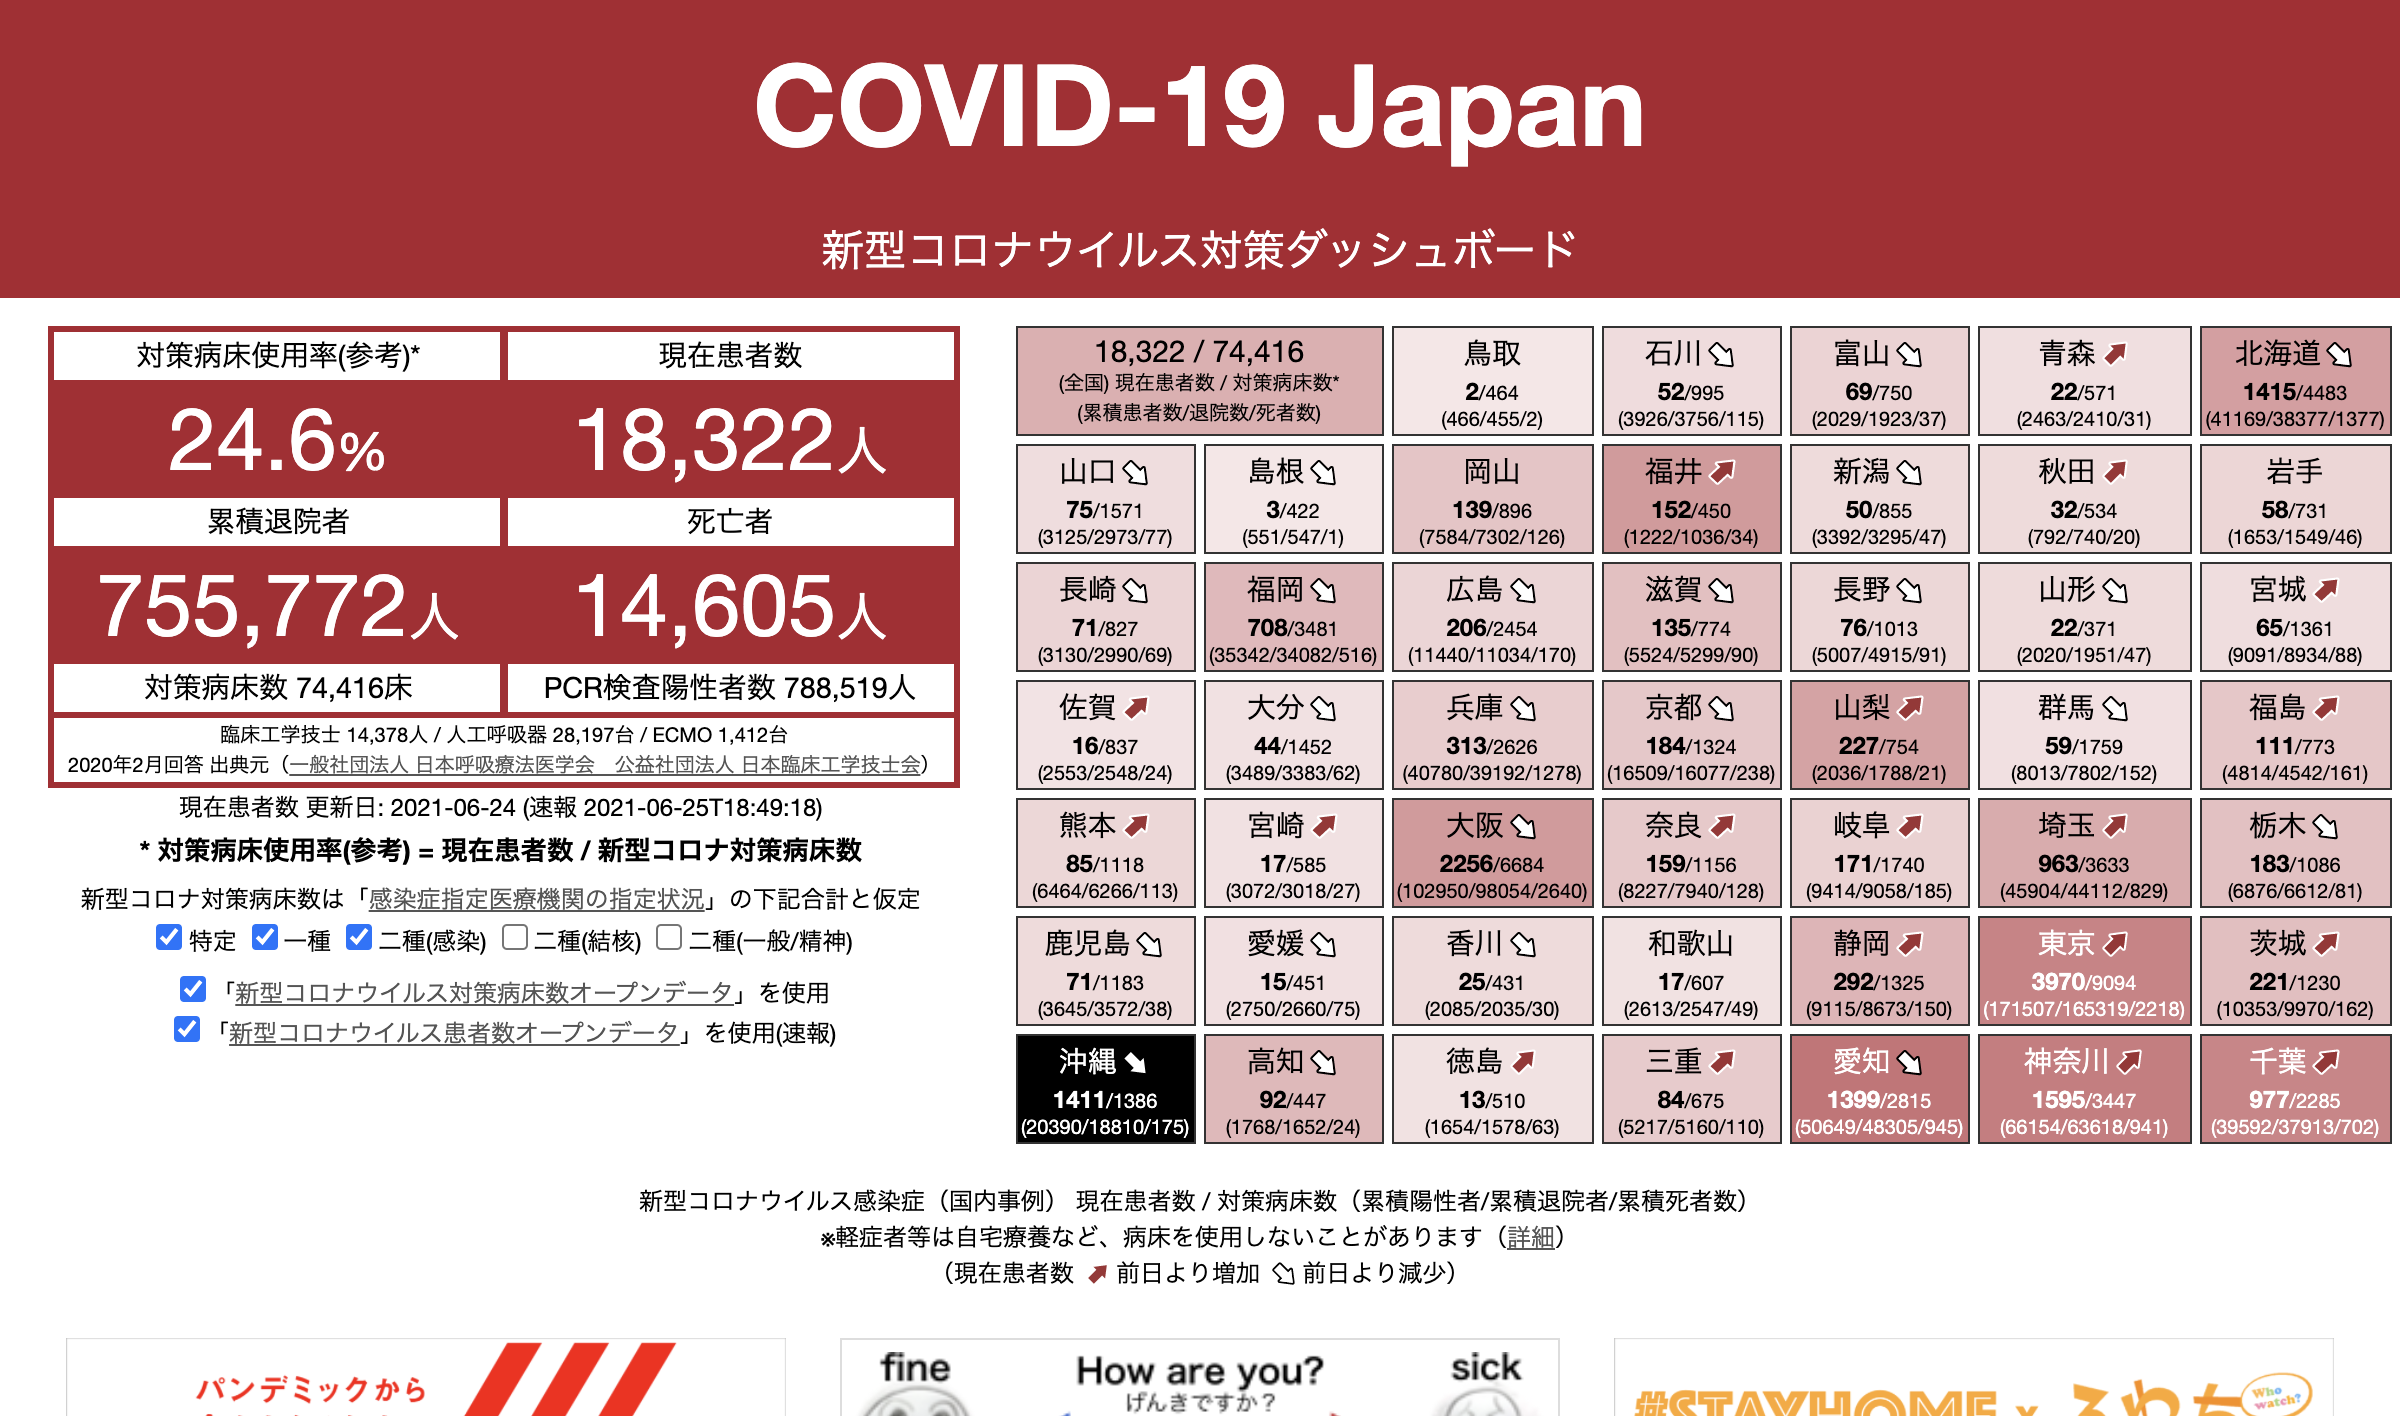
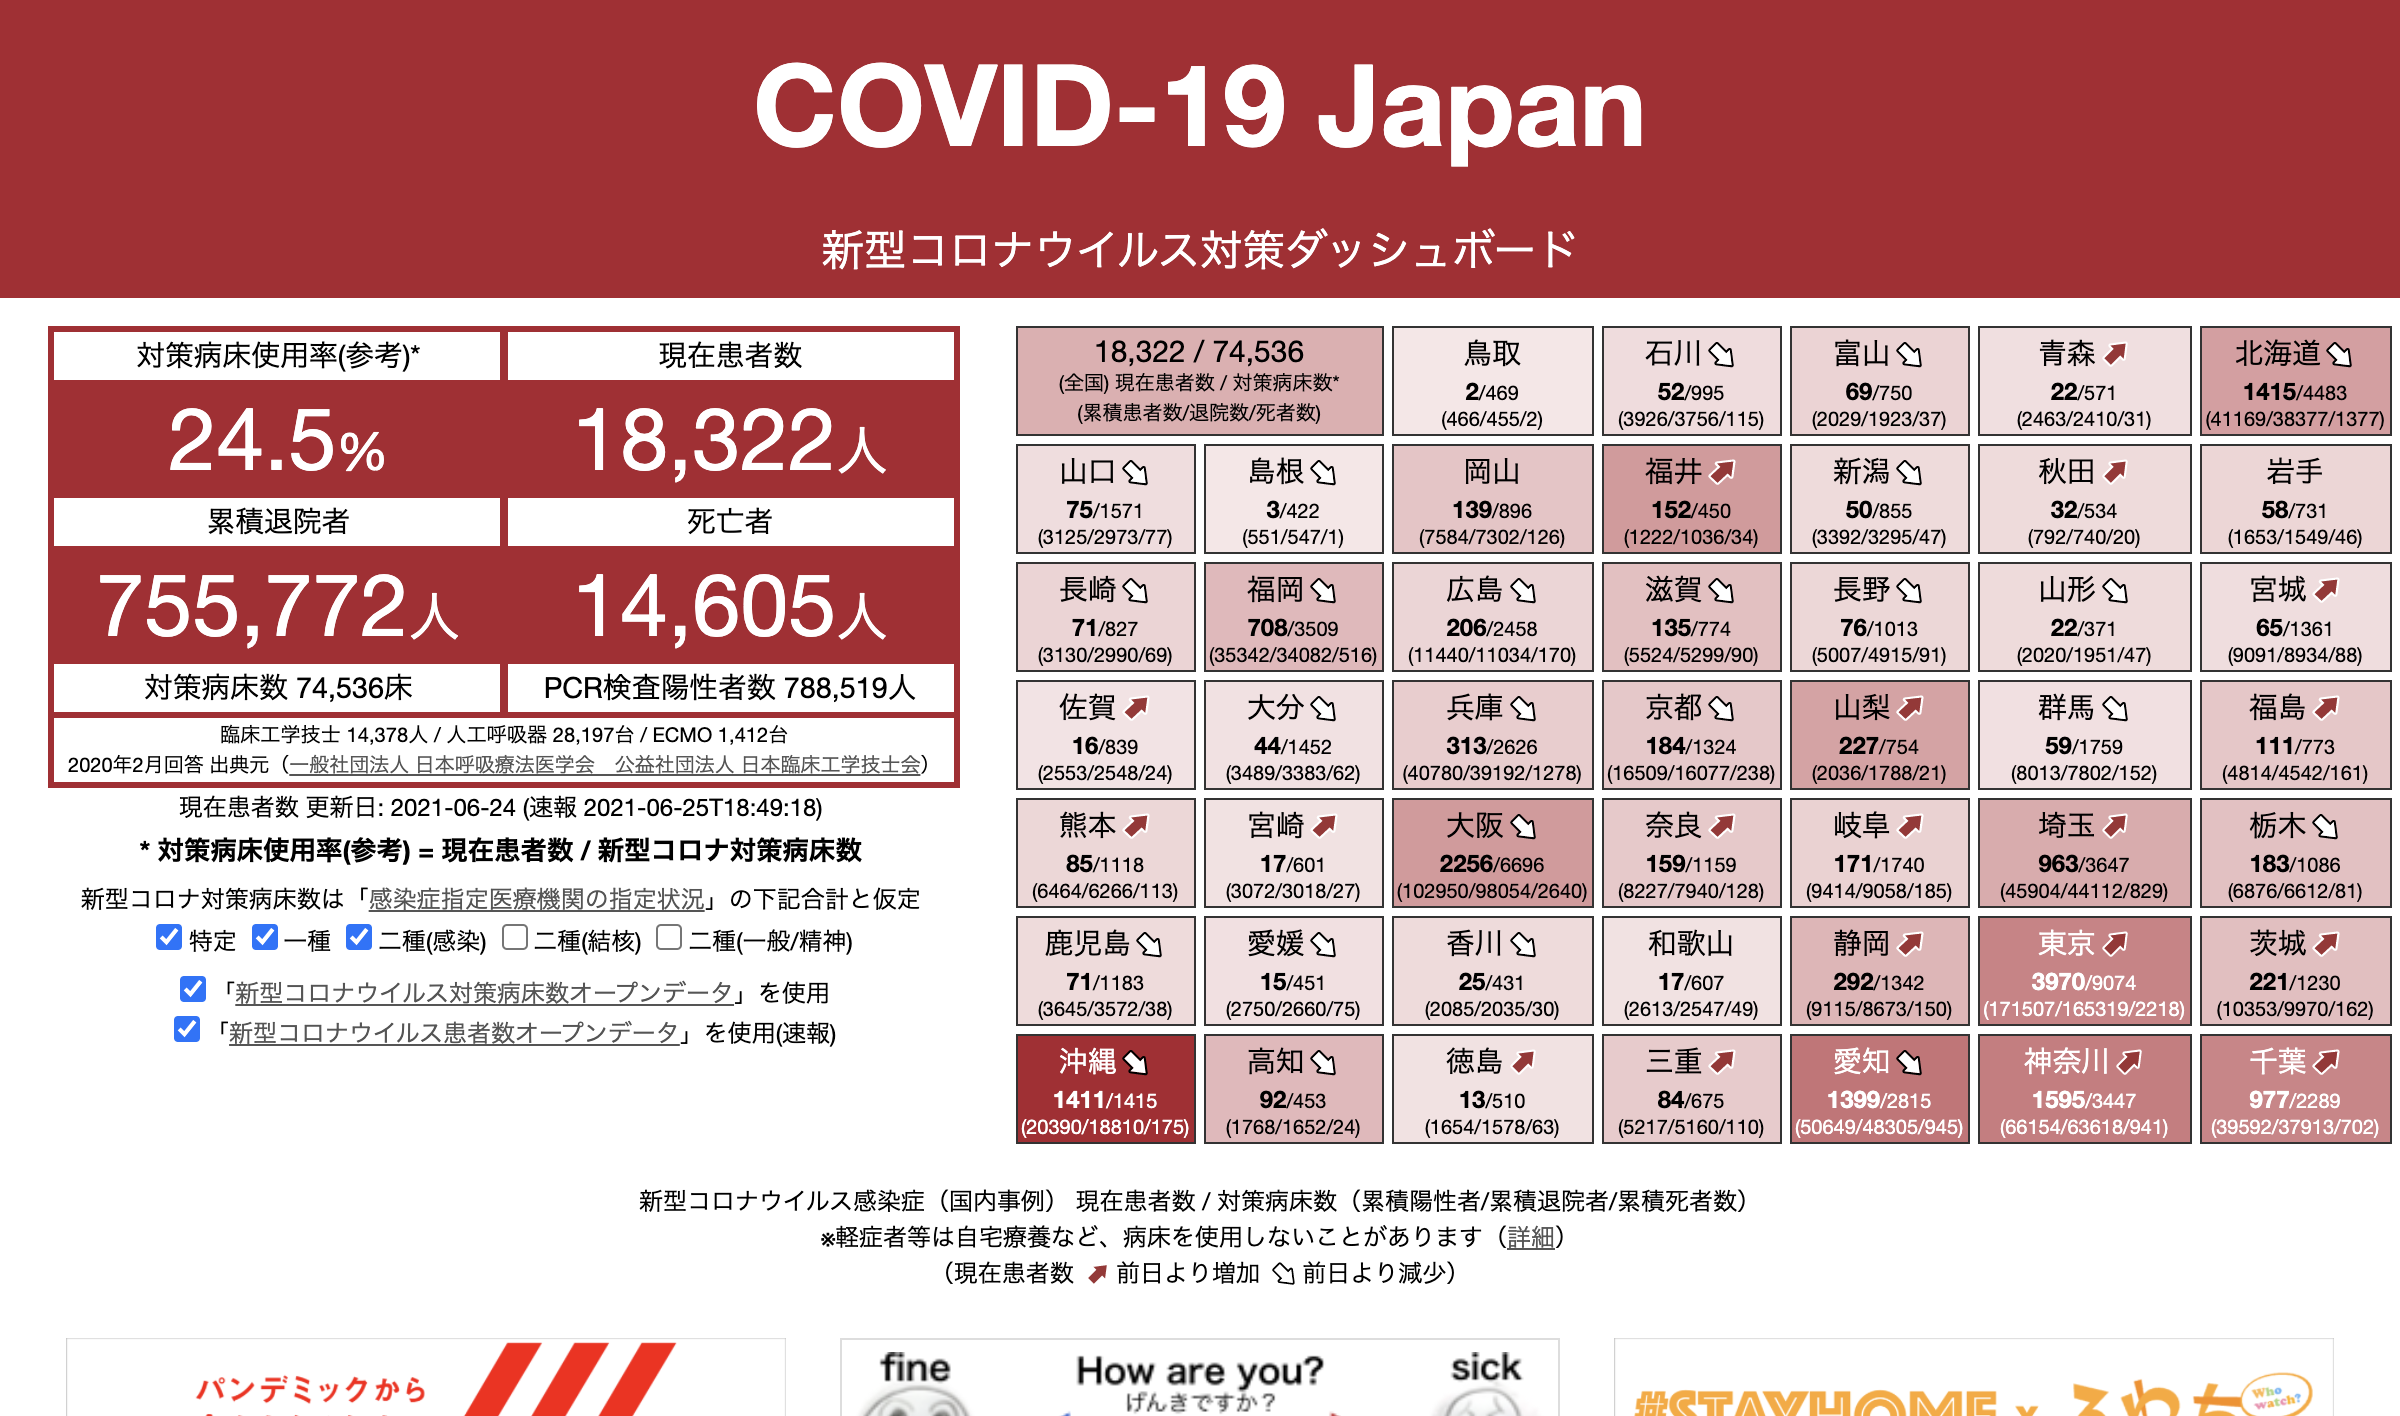
update data

Changed region(s): [[0.4062, 0.7147, 0.5, 0.8079], [0.125, 0.4661, 0.1562, 0.4972]]

diff --git a/index.html b/index.html
@@ -20,8 +20,8 @@ gtag('config', 'UA-162141832-1')
 <link rel="apple-touch-icon" href="covid19japan-leargeicon.png">
 <meta name="msapplication-square310x310logo" content="covid19japan-leargeicon.png">
 <meta name="twitter:card" content="summary_large_image">
-<meta property="og:image"  content="https://www.stopcovid19.jp/ogp/covid19japan_ogp_20210626000422.png">
-<meta name="twitter:image" content="https://www.stopcovid19.jp/ogp/covid19japan_ogp_20210626000422.png">
+<meta property="og:image"  content="https://www.stopcovid19.jp/ogp/covid19japan_ogp_20210626090918.png">
+<meta name="twitter:image" content="https://www.stopcovid19.jp/ogp/covid19japan_ogp_20210626090918.png">
 
 <meta name="viewport" content="width=device-width, initial-scale=1.0">
 <meta name="format-detection" content="telephone=no">
